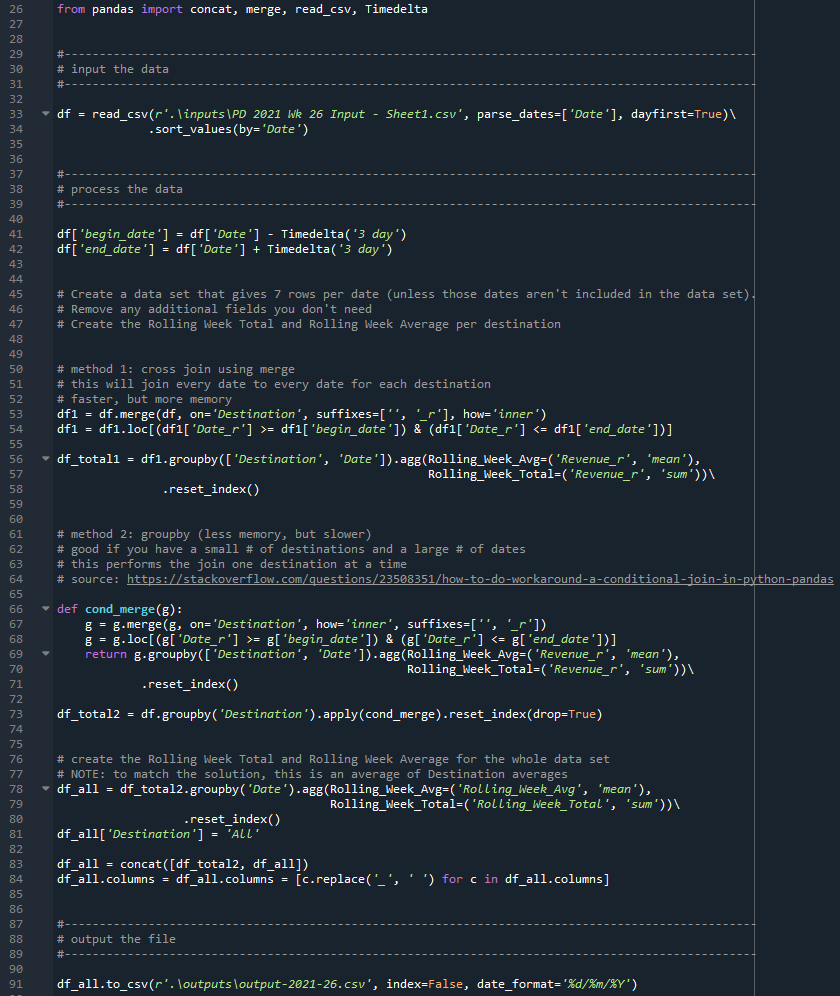
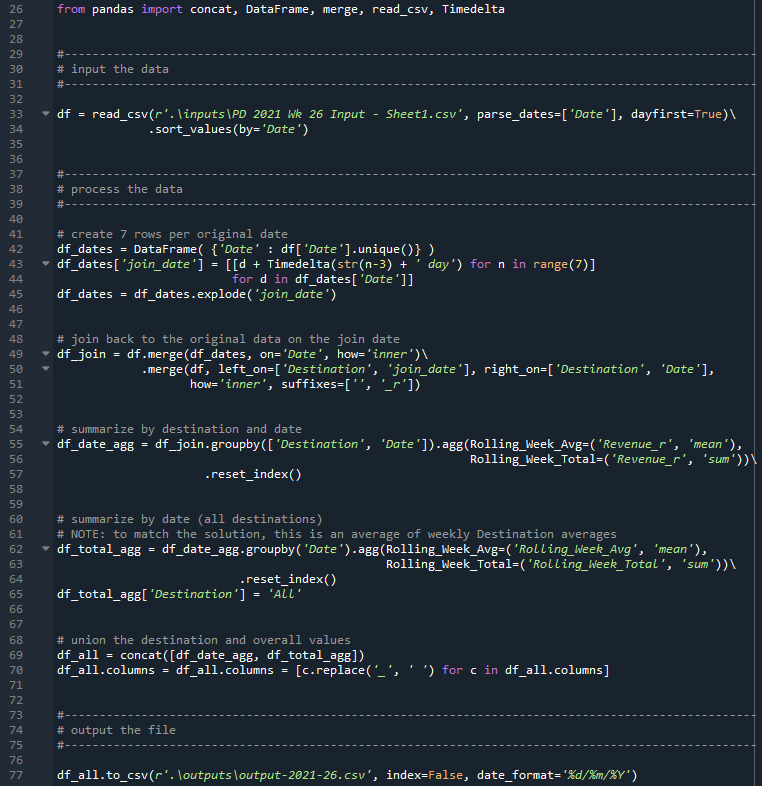
Updated python file and screenshot

diff --git a/2021/preppin-data-2021-26/preppin-data-2021-26.py b/2021/preppin-data-2021-26/preppin-data-2021-26.py
@@ -23,7 +23,7 @@ Requirements:
 """
 
 
-from pandas import concat, merge, read_csv, Timedelta
+from pandas import concat, DataFrame, merge, read_csv, Timedelta
 
 
 #---------------------------------------------------------------------------------------------------
@@ -32,55 +32,41 @@ from pandas import concat, merge, read_csv, Timedelta
 
 df = read_csv(r'.\inputs\PD 2021 Wk 26 Input - Sheet1.csv', parse_dates=['Date'], dayfirst=True)\
              .sort_values(by='Date')
-       
+
 
 #---------------------------------------------------------------------------------------------------
 # process the data
 #---------------------------------------------------------------------------------------------------
 
-df['begin_date'] = df['Date'] - Timedelta('3 day')
-df['end_date'] = df['Date'] + Timedelta('3 day')
+# create 7 rows per original date
+df_dates = DataFrame( {'Date' : df['Date'].unique()} )
+df_dates['join_date'] = [[d + Timedelta(str(n-3) + ' day') for n in range(7)] 
+                         for d in df_dates['Date']]
+df_dates = df_dates.explode('join_date')
 
 
-# Create a data set that gives 7 rows per date (unless those dates aren't included in the data set). 
-# Remove any additional fields you don't need 
-# Create the Rolling Week Total and Rolling Week Average per destination
+# join back to the original data on the join date
+df_join = df.merge(df_dates, on='Date', how='inner')\
+            .merge(df, left_on=['Destination', 'join_date'], right_on=['Destination', 'Date'],
+                   how='inner', suffixes=['', '_r'])
 
 
-# method 1: cross join using merge
-# this will join every date to every date for each destination
-# faster, but more memory
-df1 = df.merge(df, on='Destination', suffixes=['', '_r'], how='inner')
-df1 = df1.loc[(df1['Date_r'] >= df1['begin_date']) & (df1['Date_r'] <= df1['end_date'])]
-         
-df_total1 = df1.groupby(['Destination', 'Date']).agg(Rolling_Week_Avg=('Revenue_r', 'mean'),
-                                                     Rolling_Week_Total=('Revenue_r', 'sum'))\
-               .reset_index()
+# summarize by destination and date         
+df_date_agg = df_join.groupby(['Destination', 'Date']).agg(Rolling_Week_Avg=('Revenue_r', 'mean'),
+                                                           Rolling_Week_Total=('Revenue_r', 'sum'))\
+                     .reset_index()
 
 
-# method 2: groupby (less memory, but slower)
-# good if you have a small # of destinations and a large # of dates
-# this performs the join one destination at a time
-# source: https://stackoverflow.com/questions/23508351/how-to-do-workaround-a-conditional-join-in-python-pandas
+# summarize by date (all destinations)
+# NOTE: to match the solution, this is an average of weekly Destination averages
+df_total_agg = df_date_agg.groupby('Date').agg(Rolling_Week_Avg=('Rolling_Week_Avg', 'mean'),
+                                               Rolling_Week_Total=('Rolling_Week_Total', 'sum'))\
+                          .reset_index()
+df_total_agg['Destination'] = 'All'
 
-def cond_merge(g): 
-    g = g.merge(g, on='Destination', how='inner', suffixes=['', '_r'])
-    g = g.loc[(g['Date_r'] >= g['begin_date']) & (g['Date_r'] <= g['end_date'])]
-    return g.groupby(['Destination', 'Date']).agg(Rolling_Week_Avg=('Revenue_r', 'mean'),
-                                                  Rolling_Week_Total=('Revenue_r', 'sum'))\
-            .reset_index()
 
-df_total2 = df.groupby('Destination').apply(cond_merge).reset_index(drop=True)
- 
-
-# create the Rolling Week Total and Rolling Week Average for the whole data set
-# NOTE: to match the solution, this is an average of Destination averages
-df_all = df_total2.groupby('Date').agg(Rolling_Week_Avg=('Rolling_Week_Avg', 'mean'),
-                                       Rolling_Week_Total=('Rolling_Week_Total', 'sum'))\
-                  .reset_index()
-df_all['Destination'] = 'All'
-
-df_all = concat([df_total2, df_all])
+# union the destination and overall values
+df_all = concat([df_date_agg, df_total_agg])
 df_all.columns = df_all.columns = [c.replace('_', ' ') for c in df_all.columns]
 
 
